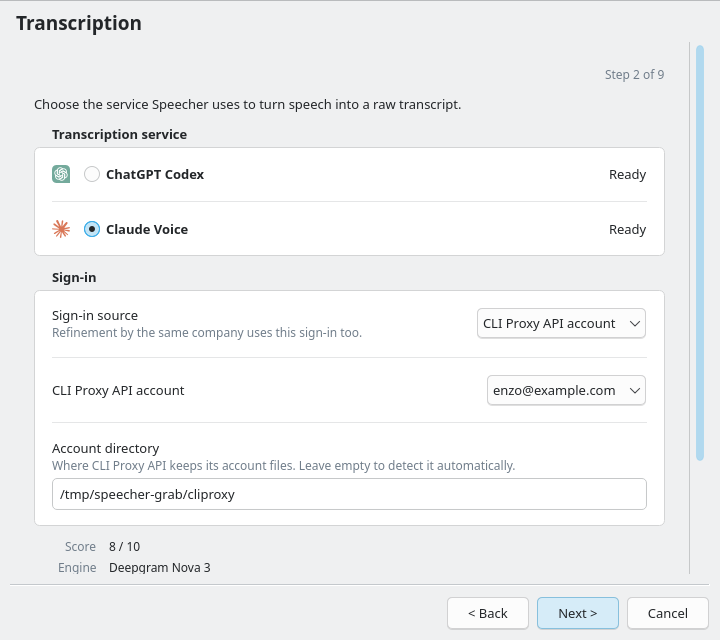
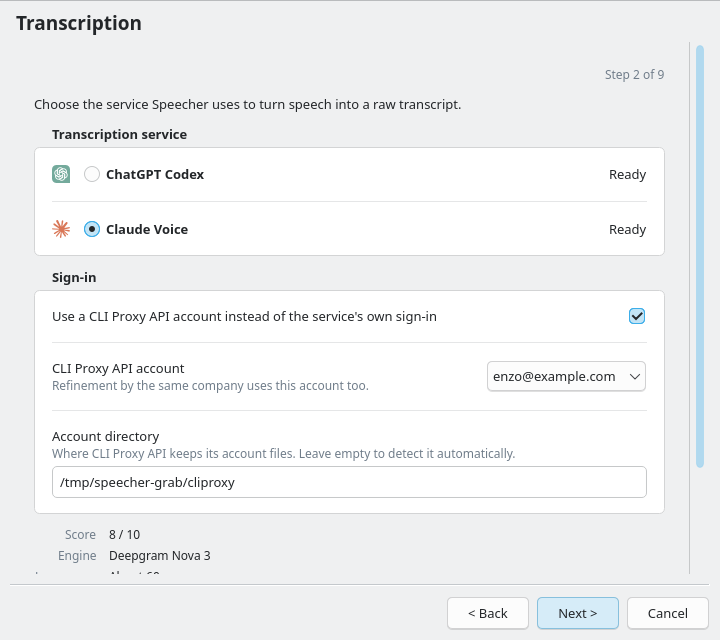
Make CLI Proxy API an opt-in checkbox rather than a peer of the normal sign-in
Almost everyone signs in with the service itself; a "Sign-in source" dropdown
presented that default and the CLI Proxy API exception as equal choices. The
card now carries one checkbox — "Use a CLI Proxy API account instead of the
service's own sign-in" — and reveals the account and directory rows only when
checked. Unchecking returns to the sign-in mode the page first saw, so a mode
chosen in Settings survives the round trip.

diff --git a/src/ui/setup/SetupPages.cpp b/src/ui/setup/SetupPages.cpp
@@ -444,23 +444,6 @@ void setCliproxyAccountSetting(SettingsStore &settings,
     }
 }
 
-// The words the Providers settings page uses for the same mode, for a stored
-// mode this page's short list does not offer (an OpenAI API key, say), which is
-// kept rather than clobbered. The schema's option table is the one source of
-// those words.
-QString signInModeLabel(const QString &providerId, const QString &mode)
-{
-    const QString rowId = providerId == QStringLiteral("codex")
-        ? QStringLiteral("openAiAuthMode")
-        : QStringLiteral("anthropicAuthMode");
-    for (const RowOption &option : authModeOptions(rowId)) {
-        if (option.id == mode) {
-            return option.label;
-        }
-    }
-    return mode;
-}
-
 // What the shortcut actually does depends on the activation mode chosen a
 // page earlier, so the closing instruction has to follow it.
 QString activationInstruction(ShortcutActivationMode mode, const QString &shortcut)
@@ -676,7 +659,7 @@ void WelcomeSetupPage::showCliproxyCredential(bool found)
     // step: the user this row exists for must switch the sign-in source on the
     // Transcription step, or its probes will fail against the CLI sign-ins.
     m_cliproxyHint->setText(found
-        ? QStringLiteral("To use one of these accounts, set the sign-in source to CLI Proxy API on the Transcription step.")
+        ? QStringLiteral("To use one of these accounts, turn on \"Use a CLI Proxy API account\" on the Transcription step.")
         : QStringLiteral("Optional: Claude and Codex accounts saved by CLI Proxy API also work. If yours live in a custom directory, enter it below."));
     m_cliproxyHint->show();
     // Keep the field while it has focus: this very check can be the one its
@@ -738,33 +721,32 @@ SpeechProviderSetupPage::SpeechProviderSetupPage(SettingsStore &settings,
         m_options.first().button->setChecked(true);
     }
 
-    // Where the chosen service's sign-in comes from, in a card of its own:
-    // inside the service card the dropdown read as a second service picker.
-    // Someone whose only login lives in CLI Proxy API switches here instead of
-    // failing the probe and hunting through Settings.
+    // Almost everyone signs in with the service itself, so that stays the
+    // silent default; CLI Proxy API is the explicit exception a checkbox opts
+    // into, in a card of its own — inside the service card the control read as
+    // a second service picker. Someone whose only login lives in CLI Proxy API
+    // opts in here instead of failing the probe and hunting through Settings.
     QFormLayout *signIn = addCard(layout, this, QStringLiteral("Sign-in"));
     QWidget *host = signIn->parentWidget();
     // settingsCardForm -> card frame -> the titled section, which is what has
     // to disappear for a provider without these controls; hiding only the card
     // would leave the bold header floating.
     m_signInSection = host->parentWidget()->parentWidget();
-    m_signInSource = new QComboBox(host);
-    m_signInSource->setObjectName(QStringLiteral("speechSignInSource"));
-    // The items are swapped per provider after the first show; without this
-    // the combo keeps the first list's width and elides the longer labels.
-    m_signInSource->setSizeAdjustPolicy(QComboBox::AdjustToContents);
+    m_useCliproxy = new QCheckBox(host);
+    m_useCliproxy->setObjectName(QStringLiteral("speechUseCliproxy"));
     m_signInSourceRow = settings::makeRow(
-        QStringLiteral("Sign-in source"),
-        QStringLiteral("Refinement by the same company uses this sign-in too."),
-        m_signInSource,
+        QStringLiteral("Use a CLI Proxy API account instead of the service's own sign-in"),
+        QString(),
+        m_useCliproxy,
         host);
     settings::addCardRow(signIn, m_signInSourceRow, host);
     m_cliproxyAccount = new QComboBox(host);
     m_cliproxyAccount->setObjectName(QStringLiteral("speechCliproxyAccount"));
-    m_cliproxyAccountRow = settings::makeRow(QStringLiteral("CLI Proxy API account"),
-                                             QString(),
-                                             m_cliproxyAccount,
-                                             host);
+    m_cliproxyAccountRow = settings::makeRow(
+        QStringLiteral("CLI Proxy API account"),
+        QStringLiteral("Refinement by the same company uses this account too."),
+        m_cliproxyAccount,
+        host);
     settings::addCardRow(signIn, m_cliproxyAccountRow, host);
     m_cliproxyDir = new QLineEdit(host);
     m_cliproxyDir->setObjectName(QStringLiteral("speechCliproxyDir"));
@@ -808,15 +790,17 @@ SpeechProviderSetupPage::SpeechProviderSetupPage(SettingsStore &settings,
     connect(m_accuracyPass, &QCheckBox::toggled, this, [this](bool checked) {
         m_settings.setCodexFinalRetranscribe(checked);
     });
-    // activated rather than currentIndexChanged: only a choice the user made
-    // writes settings and probes, never this page's own repopulation.
-    connect(m_signInSource, &QComboBox::activated, this, [this] {
+    // clicked/activated rather than toggled/currentIndexChanged: only a choice
+    // the user made writes settings and probes, never this page's own updates.
+    connect(m_useCliproxy, &QCheckBox::clicked, this, [this](bool checked) {
         const int index = selectedIndex();
         if (index < 0) {
             return;
         }
-        setSpeechSignInMode(m_settings, m_options.at(index).id,
-                            m_signInSource->currentData().toString());
+        const QString providerId = m_options.at(index).id;
+        setSpeechSignInMode(m_settings, providerId,
+                            checked ? kCliproxySignInMode
+                                    : m_fallbackSignInModes.value(providerId));
         updateSignInControls();
         reprobeSelectedProvider();
     });
@@ -924,28 +908,22 @@ void SpeechProviderSetupPage::updateSignInControls()
         return;
     }
     const QString mode = speechSignInMode(m_settings, providerId);
-    // A mode chosen in Settings that this page's short list does not offer
-    // must stay selectable for the life of the page, so trying CLI Proxy API
-    // and changing your mind cannot silently rewrite it.
-    if (!m_initialSignInModes.contains(providerId)) {
-        m_initialSignInModes.insert(providerId, mode);
-    }
-    {
-        const QSignalBlocker blocker(m_signInSource);
-        m_signInSource->clear();
-        if (providerId == QStringLiteral("claude")) {
-            m_signInSource->addItem(QStringLiteral("Claude Code sign-in"), QStringLiteral("oauth"));
-        } else {
-            m_signInSource->addItem(QStringLiteral("ChatGPT or Codex sign-in"), QStringLiteral("auto"));
-        }
-        m_signInSource->addItem(QStringLiteral("CLI Proxy API account"), kCliproxySignInMode);
-        const QString initialMode = m_initialSignInModes.value(providerId);
-        if (m_signInSource->findData(initialMode) < 0) {
-            m_signInSource->insertItem(0, signInModeLabel(providerId, initialMode), initialMode);
-        }
-        settings::selectData(m_signInSource, mode);
+    // What unchecking the box returns to: the mode this page first saw, so a
+    // sign-in chosen in Settings (an OpenAI API key, say) survives a round
+    // trip through CLI Proxy API instead of being rewritten to the default.
+    if (!m_fallbackSignInModes.contains(providerId)) {
+        m_fallbackSignInModes.insert(providerId,
+                                     mode == kCliproxySignInMode
+                                         ? providerId == QStringLiteral("codex")
+                                               ? QStringLiteral("auto")
+                                               : QStringLiteral("oauth")
+                                         : mode);
     }
     const bool cliproxy = mode == kCliproxySignInMode;
+    {
+        const QSignalBlocker blocker(m_useCliproxy);
+        m_useCliproxy->setChecked(cliproxy);
+    }
     setCardRowVisible(m_cliproxyAccountRow, cliproxy);
     setCardRowVisible(m_cliproxyDirRow, cliproxy);
     if (!cliproxy) {

diff --git a/tests/test_ui.cpp b/tests/test_ui.cpp
@@ -1028,22 +1028,15 @@ private slots:
 
         SpeechProviderSetupPage setup(settings, providers);
         setup.show();
-        auto *source = setup.findChild<QComboBox *>(QStringLiteral("speechSignInSource"));
+        auto *useCliproxy = setup.findChild<QCheckBox *>(QStringLiteral("speechUseCliproxy"));
         auto *account = setup.findChild<QComboBox *>(QStringLiteral("speechCliproxyAccount"));
         auto *directory = setup.findChild<QLineEdit *>(QStringLiteral("speechCliproxyDir"));
-        QVERIFY(source && account && directory);
-        QCOMPARE(source->currentData().toString(), QStringLiteral("oauth"));
+        QVERIFY(useCliproxy && account && directory);
+        QVERIFY(!useCliproxy->isChecked());
         QVERIFY(!account->isVisibleTo(&setup));
         QVERIFY(!directory->isVisibleTo(&setup));
 
-        // The page only reacts to user selections (activated), never its own
-        // repopulation, so the test emits what a click would.
-        const auto choose = [](QComboBox *combo, const QString &data) {
-            const int index = combo->findData(data);
-            combo->setCurrentIndex(index);
-            QMetaObject::invokeMethod(combo, "activated", Q_ARG(int, index));
-        };
-        choose(source, QStringLiteral("cliproxy"));
+        useCliproxy->click();
         QCOMPARE(settings.anthropicAuthMode(), QStringLiteral("cliproxy"));
         QVERIFY(account->isVisibleTo(&setup));
         QVERIFY(directory->isVisibleTo(&setup));
@@ -1052,11 +1045,15 @@ private slots:
         QCOMPARE(account->currentData().toString(), QString());
         QCOMPARE(account->count(), 3);
 
-        choose(account, QStringLiteral("claude-b@example.com.json"));
+        // The page only reacts to user selections (activated), never its own
+        // repopulation, so the test emits what a click would.
+        const int chosen = account->findData(QStringLiteral("claude-b@example.com.json"));
+        account->setCurrentIndex(chosen);
+        QMetaObject::invokeMethod(account, "activated", Q_ARG(int, chosen));
         QCOMPARE(settings.anthropicCliproxyAccount(), QStringLiteral("claude-b@example.com.json"));
 
-        // Switching back restores the CLI sign-in and hides the account rows.
-        choose(source, QStringLiteral("oauth"));
+        // Unchecking restores the CLI sign-in and hides the account rows.
+        useCliproxy->click();
         QCOMPARE(settings.anthropicAuthMode(), QStringLiteral("oauth"));
         QVERIFY(!account->isVisibleTo(&setup));
     }

diff --git a/src/ui/setup/SetupPages.h b/src/ui/setup/SetupPages.h
@@ -186,7 +186,7 @@ private:
     // Where the selected service's sign-in comes from, so someone whose only
     // account lives in CLI Proxy API can finish setup without visiting
     // Settings first.
-    QComboBox *m_signInSource = nullptr;
+    QCheckBox *m_useCliproxy = nullptr;
     QComboBox *m_cliproxyAccount = nullptr;
     QLineEdit *m_cliproxyDir = nullptr;
     // The titled Sign-in section, hidden whole for a provider without these
@@ -195,9 +195,9 @@ private:
     QWidget *m_signInSourceRow = nullptr;
     QWidget *m_cliproxyAccountRow = nullptr;
     QWidget *m_cliproxyDirRow = nullptr;
-    // Each provider's sign-in mode when this page first saw it, kept in the
-    // combo so leaving and returning to a mode the short list lacks is lossless.
-    QHash<QString, QString> m_initialSignInModes;
+    // What unchecking the box returns each provider to, so a sign-in mode
+    // chosen in Settings survives a round trip through CLI Proxy API.
+    QHash<QString, QString> m_fallbackSignInModes;
     QCheckBox *m_accuracyPass;
     ProviderStatsBlock *m_stats;
     QLabel *m_hint;
